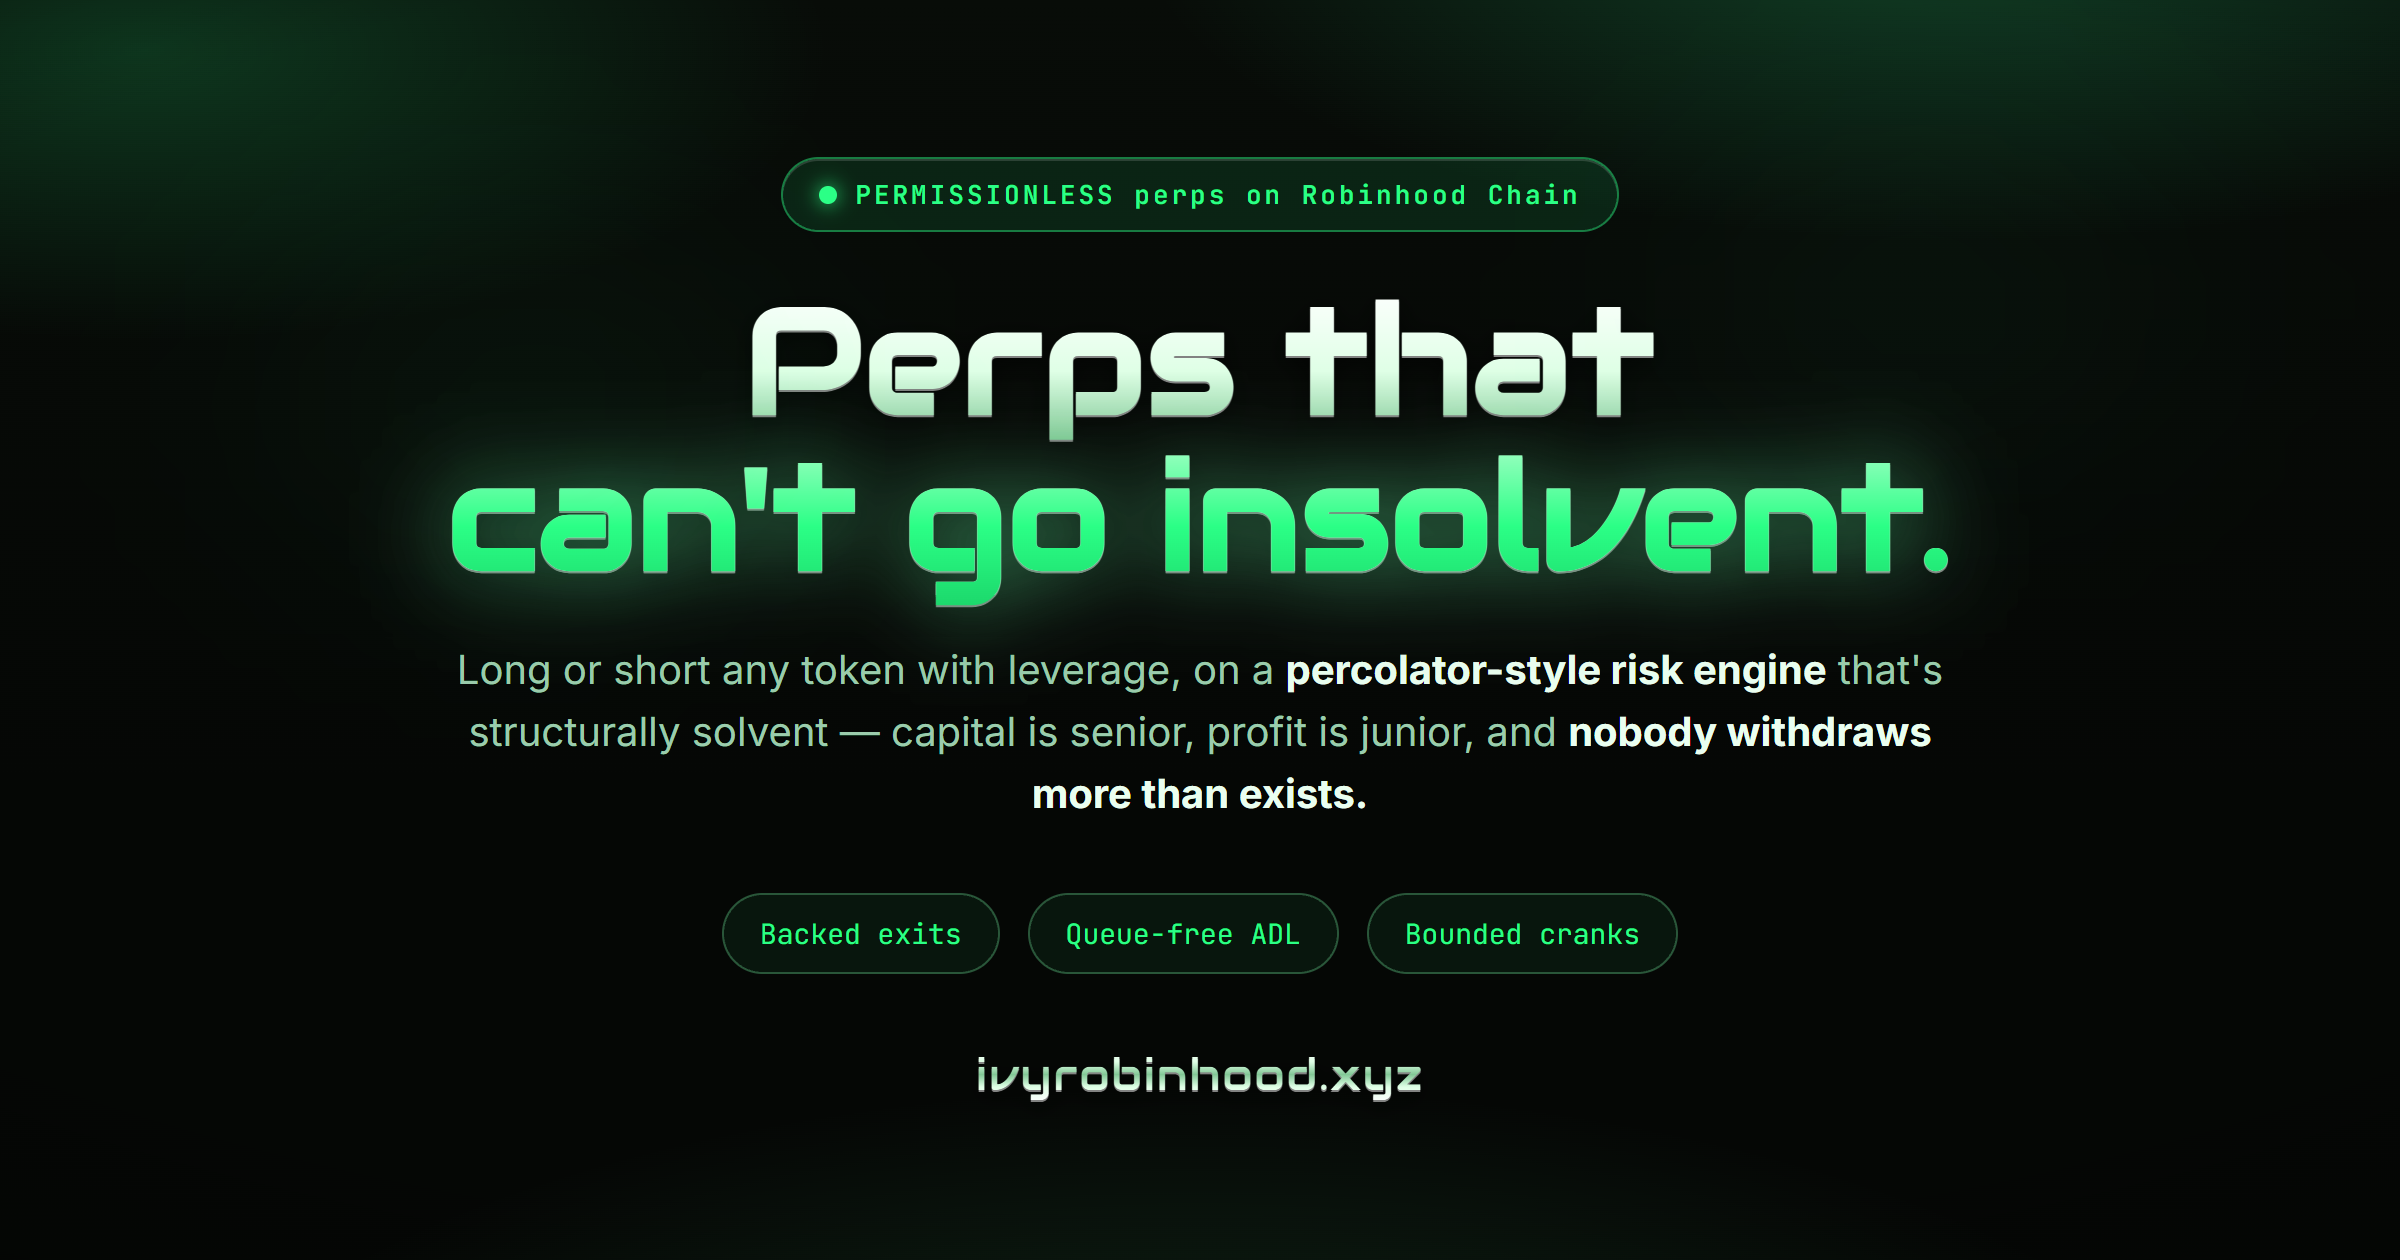
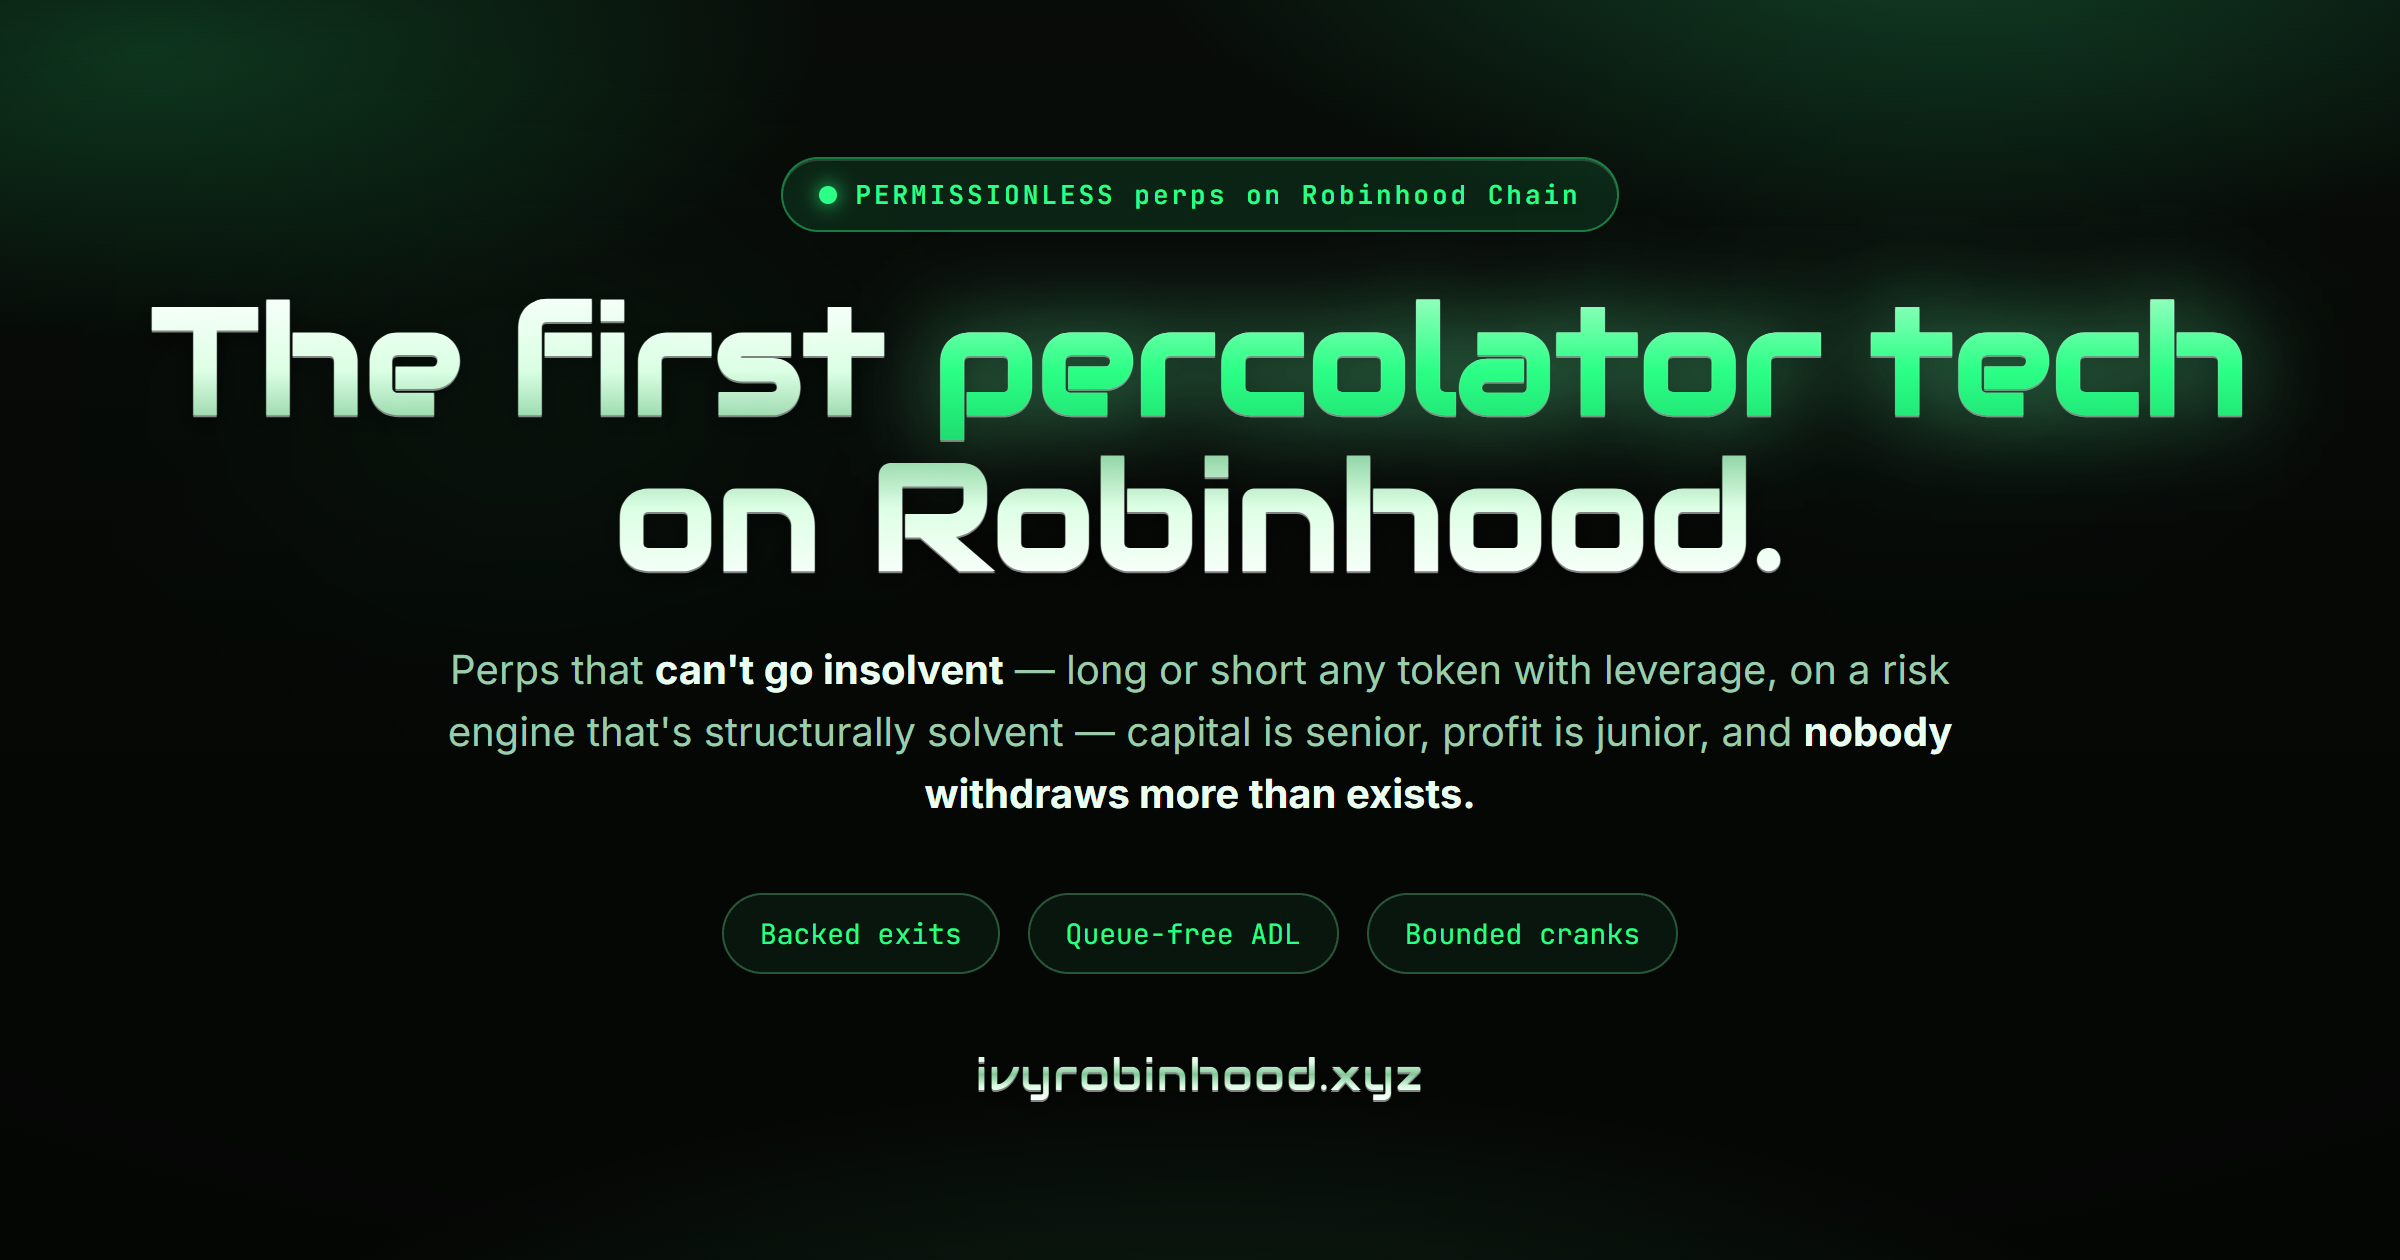
Rebrand positioning: 'the first percolator tech on Robinhood' (hero, meta, OG image)

Changed region(s): [[0.0625, 0.2167, 0.9375, 0.4952], [0.1875, 0.5262, 0.8125, 0.65]]

diff --git a/client/landing.html b/client/landing.html
@@ -3,18 +3,18 @@
 <head>
 <meta charset="utf-8">
 <meta name="viewport" content="width=device-width,initial-scale=1">
-<title>Ivy — perps that can't go insolvent · Robinhood Chain</title>
-<meta name="description" content="Ivy is a permissionless perpetual-futures DEX on Robinhood Chain, built on a percolator-style risk engine that makes the exchange structurally solvent. Testnet live on real Pyth prices.">
+<title>Ivy — the first percolator tech on Robinhood</title>
+<meta name="description" content="Ivy is the first percolator tech on Robinhood — a permissionless perpetual-futures DEX built on a risk engine that makes insolvency impossible. Testnet live on real Pyth prices.">
 <link rel="canonical" href="https://ivyrobinhood.xyz/">
 <meta property="og:type" content="website">
 <meta property="og:site_name" content="IVY">
 <meta property="og:url" content="https://ivyrobinhood.xyz/">
-<meta property="og:title" content="IVY — perps that can't go insolvent">
-<meta property="og:description" content="Permissionless perpetuals on Robinhood Chain, powered by a percolator-style solvency engine. Capital senior, profit junior — you can never withdraw more than exists. $IVY">
+<meta property="og:title" content="IVY — the first percolator tech on Robinhood">
+<meta property="og:description" content="The first percolator tech on Robinhood. Perps that can't go insolvent — capital senior, profit junior. $IVY">
 <meta property="og:image" content="https://ivyrobinhood.xyz/og.png">
 <meta name="twitter:card" content="summary_large_image">
-<meta name="twitter:title" content="IVY — perps that can't go insolvent">
-<meta name="twitter:description" content="Permissionless perps on Robinhood Chain. Solvency proven by math, not promises. $IVY">
+<meta name="twitter:title" content="IVY — the first percolator tech on Robinhood">
+<meta name="twitter:description" content="The first percolator tech on Robinhood. Perps that can't go insolvent. $IVY">
 <meta name="twitter:image" content="https://ivyrobinhood.xyz/og.png">
 <link rel="preconnect" href="https://fonts.googleapis.com">
 <link rel="preconnect" href="https://fonts.gstatic.com" crossorigin>
@@ -177,8 +177,8 @@ footer a{color:var(--dim)}footer a:hover{color:var(--acc)}
 <!-- HERO -->
 <section class="hero"><div class="wrap">
   <div class="status-pill"><span class="d"></span>TESTNET LIVE ON REAL PYTH PRICES · MAINNET AFTER AUDIT</div>
-  <h1>Perps that <span class="g">can't go insolvent.</span></h1>
-  <p class="lede">Ivy is a permissionless perpetual-futures DEX on Robinhood Chain, built on a <b style="color:var(--ink)">percolator-style risk engine</b>. Capital is senior, profit is junior — so the exchange is solvent by construction. No ADL queues. No insurance black box. No admin.</p>
+  <h1>The first <span class="g">percolator tech</span><br>on Robinhood.</h1>
+  <p class="lede"><b style="color:var(--ink)">Perps that can't go insolvent.</b> Ivy brings the percolator risk engine to Robinhood Chain — a permissionless perpetual-futures DEX that is solvent by construction. Capital is senior, profit is junior — so the exchange is solvent by construction. No ADL queues. No insurance black box. No admin.</p>
   <div class="cta">
     <a class="btn acc" href="/app">Enter Testnet →</a>
     <a class="btn" href="#engine">How the engine works</a>